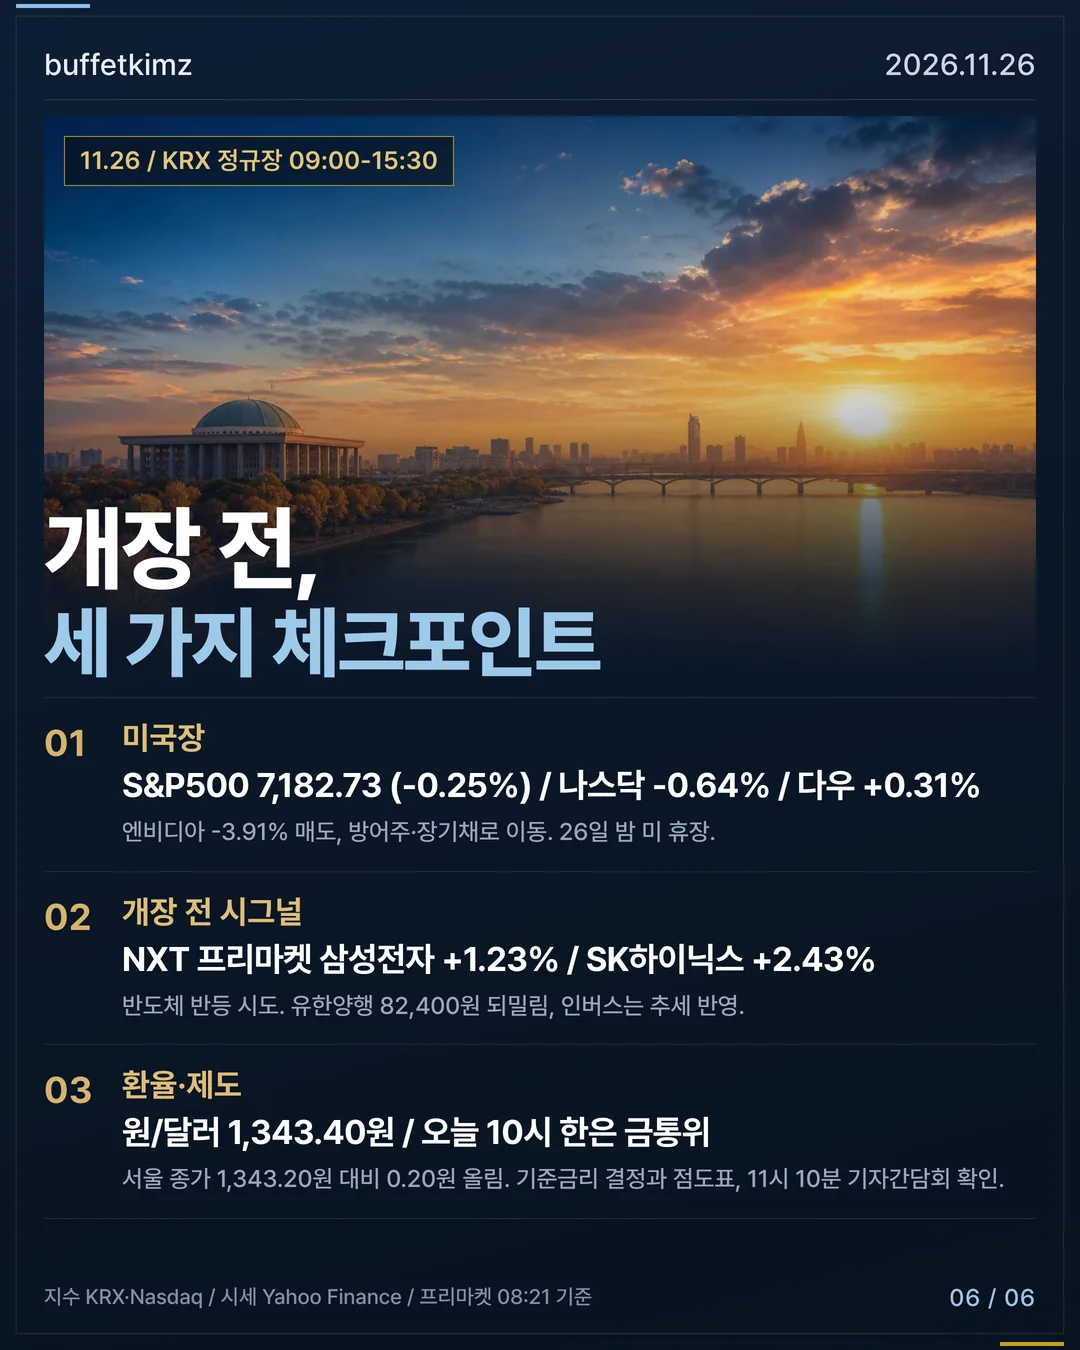
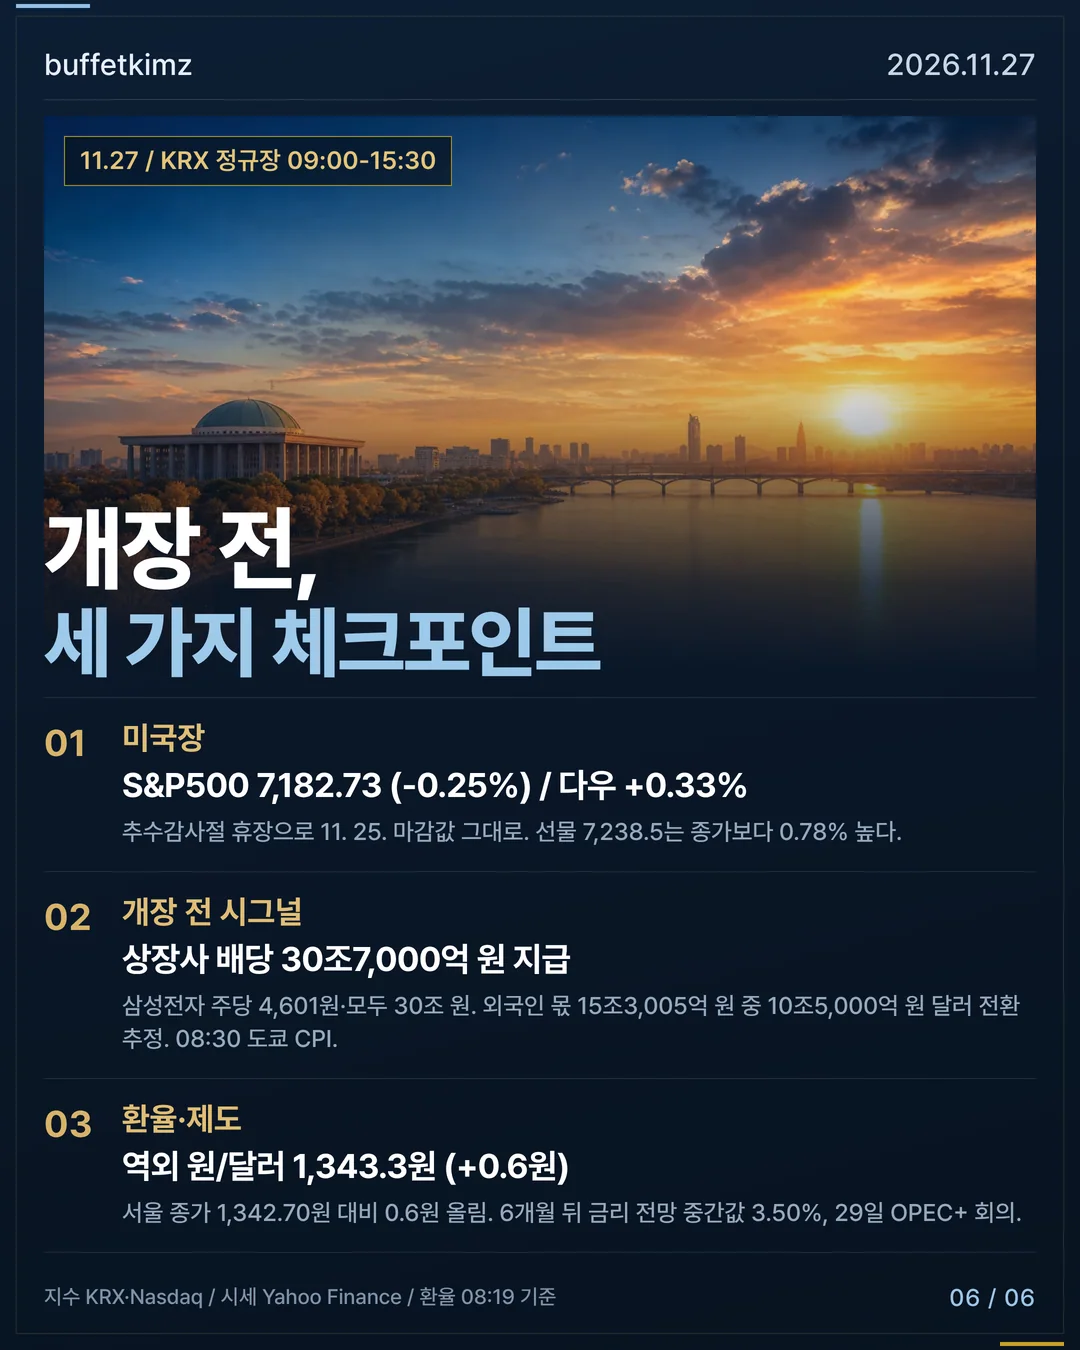
feat(gallery): 4대 시장 퀀트 스크리닝 카드뉴스 갱신 (11/27)

diff --git a/src/data/gallery.ts b/src/data/gallery.ts
@@ -106,23 +106,23 @@ export const galleryItems: GalleryItem[] = [
   /* quant-screening-daily:BEGIN — render_quant_cards.mjs --gallery가 매일 이 블록만 새로 씁니다 */
   {
     id: "quant-screening-daily",
-    title: "4대 시장 퀀트 스크리닝 (11/26)",
+    title: "4대 시장 퀀트 스크리닝 (11/27)",
     tagline: "골든 시그널로 본 4종목",
     summary:
-      "미국 주식·미국 ETF·국내 주식·국내 ETF 네 시장을 같은 기준(이동평균선 정배열·RSI·거래량)으로 훑은 2026. 11. 26 기준 결과입니다. 시장별 1위 4종목과 개장 전 체크포인트 3가지를 6장에 담았습니다.",
+      "미국은 추수감사절 휴장으로 11월 25일 마감값이 그대로이고, 국내는 한은이 기준금리를 3.25%로 올린 다음 날입니다. 08:20 퀀트 스크리닝에서 200종목 중 68개가 골든 시그널이었고, 미국 주식 홈디포·미국 ETF TLT·국내 주식 카카오뱅크·국내 ETF TIGER 미국채30년스트립이 시장별 1위입니다. 방어 성격의 은행·장기 국채가 앞서고 반도체·성장주는 뒤처진 하루였습니다.",
     category: "cardnews",
-    createdAt: "2026-11-26",
+    createdAt: "2026-11-27",
     tags: ["퀀트 스크리닝", "골든 시그널", "미국 주식", "국내 주식", "ETF"],
     slides: [
-      { src: "/gallery/quant-screening-daily/01.webp", width: 1080, height: 1350, alt: "표지 — 4대 시장 퀀트 스크리닝, 미국 주식 홈디포·미국 ETF TLT·국내 주식 유한양행·국내 ETF KODEX 인버스2X", caption: "표지 — 골든 시그널로 본 4종목" },
+      { src: "/gallery/quant-screening-daily/01.webp", width: 1080, height: 1350, alt: "표지 — 4대 시장 퀀트 스크리닝, 미국 주식 홈디포·미국 ETF TLT·국내 주식 카카오뱅크·국내 ETF 미국채30년", caption: "표지 — 골든 시그널로 본 4종목" },
       { src: "/gallery/quant-screening-daily/02.webp", width: 1080, height: 1350, alt: "미국 주식 / 제공 스크리닝 1위 — 홈디포 $361.26 (+2.14%), 거래량 약 667만 주, RSI / 제공 59.6, 골든 시그널 / 제공 100점", caption: "미국 주식 1위 — 홈디포 $361.26 (+2.14%)" },
       { src: "/gallery/quant-screening-daily/03.webp", width: 1080, height: 1350, alt: "미국 ETF / 제공 스크리닝 1위 — 아이셰어즈 20년+ 국채 $82.24 (+0.92%), 거래량 약 4,888만 주, RSI / 제공 52.6, 골든 시그널 / 제공 100점", caption: "미국 ETF 1위 — 아이셰어즈 20년+ 국채 $82.24 (+0.92%)" },
-      { src: "/gallery/quant-screening-daily/04.webp", width: 1080, height: 1350, alt: "국내 주식 / 제공 스크리닝 1위 — 유한양행 83,500원 (+8.02%), 거래량 약 36.8만 주, RSI / 제공 51.6, 골든 시그널 / 제공 100점", caption: "국내 주식 1위 — 유한양행 83,500원 (+8.02%)" },
-      { src: "/gallery/quant-screening-daily/05.webp", width: 1080, height: 1350, alt: "국내 ETF / 제공 스크리닝 1위 — KODEX 200선물인버스2X 138원 (+14.05%), 거래량 약 78.1억 주, RSI / 제공 61.0, 골든 시그널 / 제공 100점", caption: "국내 ETF 1위 — KODEX 200선물인버스2X 138원 (+14.05%)" },
-      { src: "/gallery/quant-screening-daily/06.webp", width: 1080, height: 1350, alt: "개장 전, 세 가지 체크포인트 — 미국장 S&P500 7,182.73 (-0.25%) / 나스닥 -0.64% / 다우 +0.31%, 개장 전 시그널 NXT 프리마켓 삼성전자 +1.23% / SK하이닉스 +2.43%, 환율·제도 원/달러 1,343.40원 / 오늘 10시 한은 금통위", caption: "마무리 — 개장 전 체크포인트 3" },
+      { src: "/gallery/quant-screening-daily/04.webp", width: 1080, height: 1350, alt: "국내 주식 / 제공 스크리닝 1위 — 카카오뱅크 22,100원 (+0.45%), 거래량 약 66.9만 주, RSI / 제공 63.1, 골든 시그널 / 제공 100점", caption: "국내 주식 1위 — 카카오뱅크 22,100원 (+0.45%)" },
+      { src: "/gallery/quant-screening-daily/05.webp", width: 1080, height: 1350, alt: "국내 ETF / 제공 스크리닝 1위 — TIGER 미국채30년 34,755원 (+0.64%), 거래량 약 10.9만 주, RSI / 제공 49.3, 골든 시그널 / 제공 100점", caption: "국내 ETF 1위 — TIGER 미국채30년 34,755원 (+0.64%)" },
+      { src: "/gallery/quant-screening-daily/06.webp", width: 1080, height: 1350, alt: "개장 전, 세 가지 체크포인트 — 미국장 S&P500 7,182.73 (-0.25%) / 다우 +0.33%, 개장 전 시그널 상장사 배당 30조7,000억 원 지급, 환율·제도 역외 원/달러 1,343.3원 (+0.6원)", caption: "마무리 — 개장 전 체크포인트 3" },
     ],
     basis:
-      "기준 2026. 11. 26 08:20 · 시세 Yahoo Finance·KRX / 지수 S&P·Nasdaq / 환율 08:20 기준 · 투자 권유가 아닌 기록입니다",
+      "기준 2026. 11. 27 08:20 · 시세 Yahoo Finance·KRX / 지수 S&P·Nasdaq / 환율 08:20 기준 · 투자 권유가 아닌 기록입니다",
     related: [{ label: "오늘의 시장 확인 — 데일리 브리프", href: "/board/" }],
   },
   /* quant-screening-daily:END */
